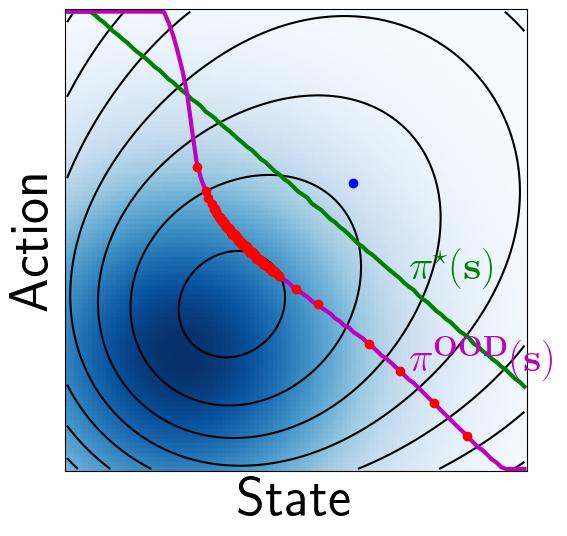
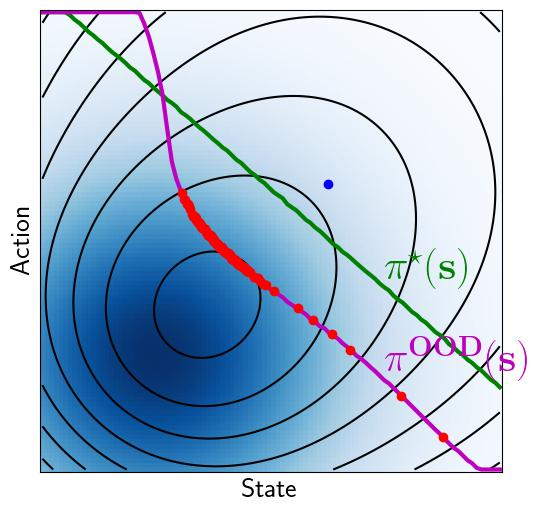
Update OOD

diff --git a/Safety/Presentation.tex b/Safety/Presentation.tex
@@ -88,6 +88,8 @@
 \definecolor{myRed}{rgb}{0.8,0,0}
 \definecolor{myRed2}{rgb}{0.65,0,0}
 \definecolor{deepBlue}{rgb}{0.0,0,1}
+\definecolor{myMagenta}{rgb}{0.7,0,0.8}
+
 
 \definecolor{myLightBlue}{rgb}{0.9,0.9,1}
 \definecolor{myLightRed}{rgb}{1,0.9,0.9}
@@ -1254,22 +1256,30 @@ Able to stop within the visible distance}
 
 \begin{frame}{\normalsize Out-Of-Distribution (OOD) ``Guarding" Methods}
 \footnotesize
-
-\textbf{Key concepts}:
-\begin{itemize}
-\item Utility + model may ``push" a problem to get ``Out-Of-Distribution"
+\textbf{Utility + model may ``push" a problem to get ``Out-Of-Distribution"}
 \begin{itemize}
 \scriptsize
 \item Unwarranted extrapolation / generalization
 \item Optimization often exploits the model ``weaknesses" 
 \end{itemize}
-\end{itemize}
-
 \begin{columns}[t]
-\column{0.5\textwidth}
+\column{0.6\textwidth}
+\begin{block}{}
+\vspace{-.25cm}
+\begin{align*}
+\textcolor{myGreen3}{\vect\pi^\star} = \argmax_{\vect\pi}\,\mathrm E\left[ \sum_{k=0}^\infty \gamma^k\left(\vect s_k^2+\vect a_k^2\right)\right]
+\end{align*}
+\end{block}
+\textbf{Key idea}
+\begin{alertblock}{}
+\vspace{-.25cm}
+\begin{align*}
+\textcolor{myMagenta}{\vect\pi^\text{OOD}} = \argmax_{\vect\pi}\,\mathrm E\left[ \sum_{k=0}^\infty \gamma^k\left(\vect s_k^2+\vect a_k^2-\varphi\left(\vect s_k,\vect a_k\right)\right)\right]
+\end{align*}
+\end{alertblock}
+\flushright where $\varphi$ is the data distribution (e.g. kernel)
 
-
-\column{0.5\textwidth}
+\column{0.4\textwidth}
 
   \begin{overlayarea}{\textwidth}{0.5\textheight}
     \begin{figure}

diff --git a/Safety/Codes/Epistemic/OOD_Policy2.py b/Safety/Codes/Epistemic/OOD_Policy2.py
@@ -129,8 +129,8 @@ for case in ['Map','Star','OOD']:
         ax1.set_aspect('equal', 'box')
         ax1.set_xticks([])
         ax1.set_yticks([])
-        ax1.set_xlabel('State',fontsize=FS)
-        ax1.set_ylabel('Action',fontsize=FS)
+        ax1.set_xlabel('State',fontsize=20)
+        ax1.set_ylabel('Action',fontsize=20)
 
         ax1.plot(sref,aref,marker='o',color='b')
         ax1.contour(sv,av,Lplot[case],colors='k',linestyles='solid')
